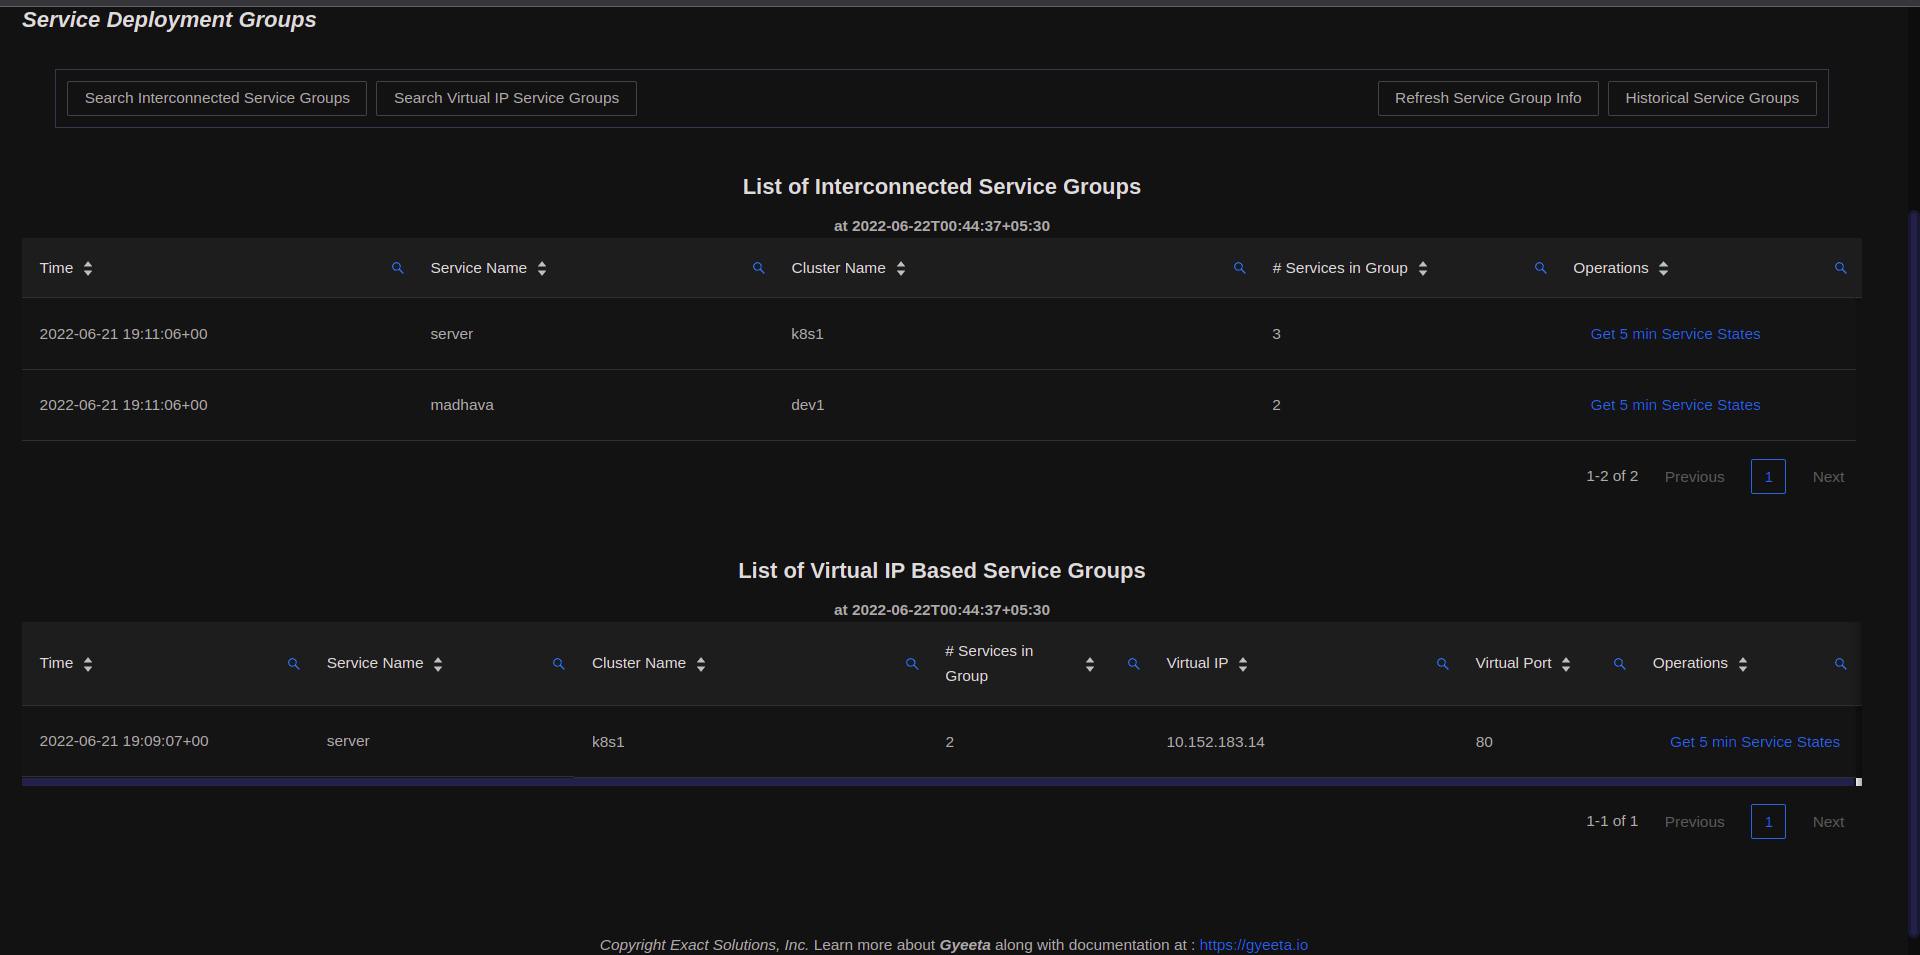
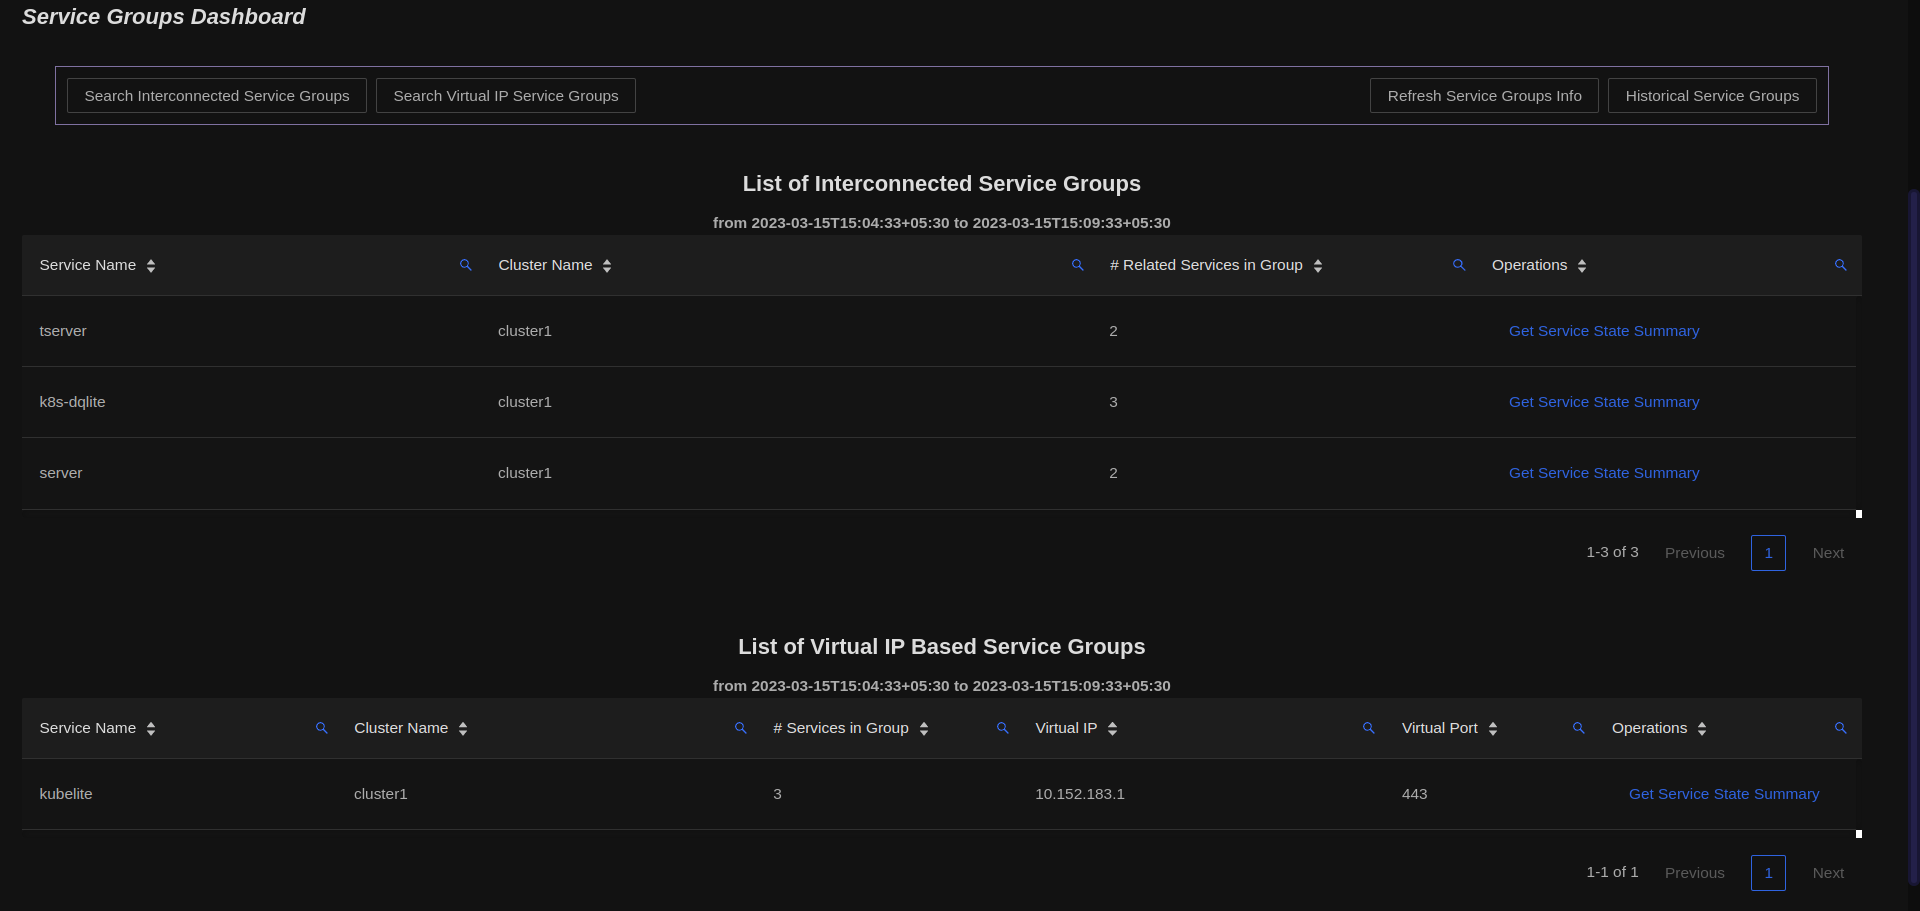
Added more Service Groups and State documentation

diff --git a/src/pages/index.js b/src/pages/index.js
@@ -45,7 +45,7 @@ function HomepageHeader() {
 	<span style={{ fontSize : 50, color : '#d4a785' }}><strong><em>G</em></strong></span><span style={{ fontSize : 40, color : '#8288b0' }}><strong><em>yeeta</em></strong></span>
 	</div>
 
-	<div style={{ marginTop : 20 }}><span style={{ fontSize : 20, margin : 20, color : '#d4a785', background : '#1b2635db', }}><strong><em>Know thy systems, Free thy self!</em></strong></span> </div>
+	<div style={{ marginTop : 20 }}><span style={{ fontSize : 20, margin : 20, color : '#d4a785', background : '#1b2635db', }}><strong><em>Know thy systems, Free thyself!</em></strong></span> </div>
 
 	<div style={{ marginTop : 20 }} />
 	<span style={{ fontSize : 20, margin : 30, color : '#bcdfd7', background : '#1b2635db', }}><strong>{siteConfig.tagline}</strong></span>

diff --git a/sidebars.js b/sidebars.js
@@ -114,7 +114,7 @@ const sidebars = {
 	},			
 	{
 		type: 'category',
-		label: 'Querying Architecture',
+		label: 'Query Analysis',
 		link: {
 			type: 'generated-index',
 		},
@@ -122,6 +122,7 @@ const sidebars = {
 			'querying/queryoverview',
 			'querying/datatypes',
 			'querying/aggregation',
+			'querying/stateclassify',
 			'querying/groupprocess',
 			'querying/netflows',
 			'querying/k8s',

diff --git a/docs/monitor/servicedash.md b/docs/monitor/servicedash.md
@@ -67,14 +67,14 @@ are shown in the Network Flows. This implies that only a subset of connections w
 
 :::
 
-## Service Deployment Groups
+## Service Groups Dashboard
 
-The Service Deployment Groups Dashboard lists out all the services which Gyeeta assumes are related and form a Clustered Service. The Clustered Services
-may be related as a `ReplicaSet` in Kubernetes.
+The Service Groups Dashboard lists out all the services which Gyeeta assumes are related and form a Clustered Service. The Clustered Services
+may be related as a `ReplicaSet` in Kubernetes. Please refer to [Service Groups](./termsused#service-group) for more details.
 
-![Service Deployment Groups](/img/servicegrp.png)
+![Service Groups](/img/servicegrp.png)
 
-Gyeeta auto detects Clustered Services based on 2 categories :
+Gyeeta auto detects Service Groups based on 2 categories :
 
 - Interconnected Services
 - Virtual IP/Port based Services
@@ -84,12 +84,21 @@ Gyeeta auto detects Clustered Services based on 2 categories :
 Services within the same `cluster` and with the same name or related services which interconnect with each other in a mesh network are classified by Gyeeta 
 as _Interconnected Service Groups_.  Gyeeta assumes these services interact with each other in a stateful manner and can track their performance as a Clustered Group.
 
+Referring to the snapshot of the Service Group dashboard shown above, clicking on the *Get Service State Summary* link, users can get the breakups of the 
+individual Service Statistics as well as Cumulative Statistics across all instances within that Service Group as shown below :
+
+![Interconnected Service Stats](/img/svcintergrp1.png)
+
+
 ### Virtual IP Based Service Groups
 
 Services within the same `cluster` and with the same [Virtual IP and Port](./termsused#virtual-ip-port) are classified by Gyeeta as being in a 
-_Virtual IP Based Service Group_. This is analogous to Kubernetes `Service IP` endpoints. 
+_Virtual IP Based Service Group_. This is analogous to Kubernetes `Service IP` endpoints. Only services with 2 or more instances having same
+Virtual IP/Ports and within same `cluster` will be classified as a Service Group.
 
-:::note
+Users can get Cumulative Statistics across all services within the Service Group as well as individual Service level statistics.
+
+:::info
 
 Gyeeta does not communicate with Cluster Orchestrators such as Kubernetes directly. This creates an issue as Clustered Services such as a `ReplicaSet` may
 be missed. Future releases of Gyeeta may have an optional component which will verify the Deployment Groups.

diff --git a/docs/querying/stateclassify.md b/docs/querying/stateclassify.md
@@ -1,0 +1,67 @@
+---
+id: stateclassify
+title: State Classification
+description: Classification of States
+---
+
+# Classification of States
+
+Gyeeta adds a Classifier field named `state` to the following subsystems :
+
+- Host
+  - CPU
+  - Memory
+  - Host State
+- Service
+- Process
+
+The `state` field indicates the current state of the subsystem as determined by Gyeeta based on an algorithmic deduction.
+
+## Types of states classified
+
+The `state` can have be one of the following states :
+
+- Idle
+- Good
+- OK
+- Bad
+- Severe
+
+### *Idle* State
+
+This state indicates an idle or a mildly active subsystem. For example, in case of a Service, this state could mean the Service Queries
+are much lower than normal with no abnormal Response time (latency). Also the lower query count could not be deduced to some process issue.
+
+### *Good* State
+
+This state indicates an active subsystem but which is neither saturated nor too idle. 
+
+For example, in case of a Host, this state could mean the Host CPU, Memory statistics are around the baseline values and also, no
+process or service issues are seen.
+
+### *OK* State
+
+This state indicates a subsystem which is neither idle nor approaching saturation. Gyeeta will classify a subsystem as *OK* if 
+it determines that the state is mildly deteriorated from its baselines but not by a long way off so as to trigger a *Bad* state.
+
+### *Bad* State
+
+This state indicates a subsystem which is deteriorated from its baselines. For example, in case of a process, Gyeeta will
+classify the Process `state` as *Bad* if it determines that the CPU delays the process is facing is over its baseline by a 
+non-infinitesimal amount.
+
+### *Severe* State
+
+This state indicates a subsystem which is severely deteriorated from its baselines. For example, in case of a process, Gyeeta will
+classify the Process `state` as *Severe* if it determines that the process is facing Memory Thrashing delays.
+
+
+## Sample Snapshot
+
+A sample snapshot of the *Process* subsystem States is shown below :
+
+![Process States](/img/procstate1.png)
+
+As seen from above, the `postgres` process state is classified as ___Bad___ due to Major Page Faults.
+
+

diff --git a/docs/monitor/termsused.md b/docs/monitor/termsused.md
@@ -314,14 +314,33 @@ proxying.
 <div class="card">
 <div class="card__header">
 
+## Service Group {#service-group}
+
+</div>
+
+<div class="card__body">
+<p>
+A Service Group in Gyeeta refers to 2 or more services which are assumed by Gyeeta to be related and part of a possible Cluster. 
+For example, a set of <code>nginx</code> instances listening on same Virtual IP/Port would be considered as a Service Group. Gyeeta does not connect 
+to any Cluster Orchestrator (such as <i>Kubernetes API server</i>) and instead tries to itself identify Service Groups based on a few conditions such as
+two services being in the same Cluster, having same name and interconnected to each other or having same Virtual IP/Ports.
+</p>
+</div>
+</div>
+<div style={{ marginTop : 20 }}> </div>
+
+
+<div class="card">
+<div class="card__header">
+
 ## Virtual IP Service Group
 
 </div>
 
 <div class="card__body">
 <p>
-A Virtual Service Service Group in Gyeeta refers to 2 or more services which have the same executable name and same Cluster Names and which have the same 
-Virtual IP and Virtual Port. Gyeeta assumes these services act as a Service Cluster.
+A Virtual IP Service Group in Gyeeta refers to 2 or more services which have the same executable name and same Cluster Names and which have the same 
+Virtual IP and Virtual Port. Gyeeta assumes these services act as a Service Group.
 </p>
 </div>
 </div>
@@ -338,7 +357,7 @@ Virtual IP and Virtual Port. Gyeeta assumes these services act as a Service Clus
 <div class="card__body">
 <p>
 An Interconnected Service Group in Gyeeta refers to 2 or more services which have the same executable name and same Cluster Names and which are 
-connected to one another in a mesh style network. Gyeeta assumes these services act as a Service Cluster.
+connected to one another in a <i>mesh</i> style network. Gyeeta assumes these services act as a Service Group.
 </p>
 </div>
 </div>
